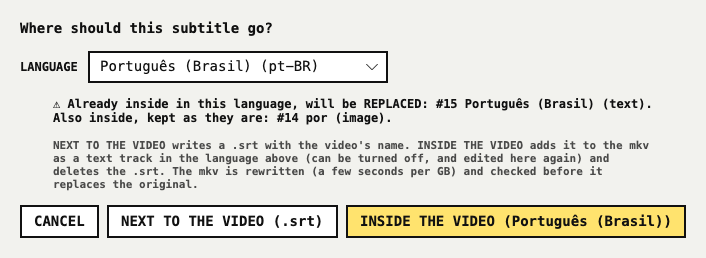
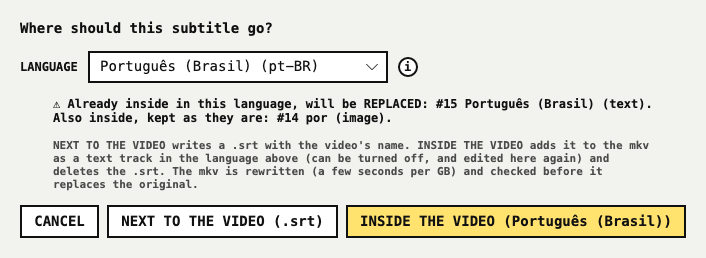
Simple mode: vertically centered buttons, info tips on language pickers
- Button labels are their own mono TextBlock, centered. Subtitle Edit styles
  every TextBlock with the UI font, and the one a Button generated for string
  content took it, with metrics that put capitals above the middle
- ⚙ is the vector cog icon (the font glyph sat above center)
- Language drop-downs (save dialog, OpenSubtitles settings) show dark mono
  text in every state, like the subtitle picker
- A circled "i" next to each language picker explains it on hover: track
  language tag and variants (save), OpenSubtitles' own codes (settings)

Tests measure the rendered pixels above and below every button label in the
window and both dialogs, with the app's UI font style applied.

Claude-Session: https://claude.ai/code/session_016i9HhykoDPTa3qBuRNXJPf

diff --git a/tests/UI/Features/Simple/ButtonCenteringTests.cs b/tests/UI/Features/Simple/ButtonCenteringTests.cs
@@ -1,0 +1,135 @@
+using Avalonia;
+using Avalonia.Controls;
+using Avalonia.Headless;
+using Avalonia.Headless.XUnit;
+using Avalonia.Media.Imaging;
+using Avalonia.Platform;
+using Avalonia.Styling;
+using Avalonia.Threading;
+using Avalonia.VisualTree;
+using Nikse.SubtitleEdit.Features.Simple;
+using System;
+using System.Collections.Generic;
+using System.Linq;
+using System.Runtime.InteropServices;
+using Xunit;
+
+namespace UITests.Features.Simple;
+
+/// <summary>
+/// Measures the rendered pixels: inside every button, the empty space above the label must
+/// match the empty space below it (within a pixel or two).
+/// </summary>
+public class ButtonCenteringTests
+{
+    private static void Pump()
+    {
+        for (var i = 0; i < 5; i++)
+        {
+            Dispatcher.UIThread.RunJobs();
+            AvaloniaHeadlessPlatform.ForceRenderTimerTick();
+        }
+    }
+
+    /// <summary>(gap above, gap below) of the dark pixels inside the button, border excluded.</summary>
+    public static (int Top, int Bottom) InkGaps(WriteableBitmap frame, Rect box, double scale)
+    {
+        using var buffer = frame.Lock();
+        var stride = buffer.RowBytes;
+        var pixels = new byte[stride * buffer.Size.Height];
+        Marshal.Copy(buffer.Address, pixels, 0, pixels.Length);
+
+        var inset = 4; // skip the 2 px border and anti-aliasing
+        int x0 = (int)(box.X * scale) + inset, x1 = (int)((box.X + box.Width) * scale) - inset;
+        int y0 = (int)(box.Y * scale) + inset, y1 = (int)((box.Y + box.Height) * scale) - inset;
+        var inkRows = new List<int>();
+        for (var y = y0; y < y1; y++)
+        {
+            for (var x = x0; x < x1; x++)
+            {
+                var i = y * stride + x * 4;
+                var luminance = (pixels[i] + pixels[i + 1] + pixels[i + 2]) / 3;
+                if (luminance < 110)
+                {
+                    inkRows.Add(y);
+                    break;
+                }
+            }
+        }
+
+        return inkRows.Count == 0 ? (-1, -1) : (inkRows.Min() - y0, y1 - 1 - inkRows.Max());
+    }
+
+    /// <summary>What Subtitle Edit does at startup: every TextBlock gets the UI font.</summary>
+    private static Avalonia.Styling.Styles AppUiFontStyle() => new()
+    {
+        new Avalonia.Styling.Style(x => x.Is<TextBlock>())
+        {
+            Setters = { new Avalonia.Styling.Setter(TextBlock.FontFamilyProperty, new Avalonia.Media.FontFamily("Helvetica Neue, Arial, sans-serif")) },
+        },
+    };
+
+    private static void AssertButtonsCentered(TopLevel top)
+    {
+        Pump();
+        var frame = top.CaptureRenderedFrame()!;
+        var scale = frame.PixelSize.Width / top.Bounds.Width;
+        var report = new List<string>();
+        foreach (var button in top.GetVisualDescendants().OfType<Button>().Where(b => b.Classes.Contains(BrutalTheme.ButtonClass) && b.IsEffectivelyVisible && b.IsEffectivelyEnabled))
+        {
+            var origin = button.TranslatePoint(new Point(0, 0), top)!.Value;
+            var (above, below) = InkGaps(frame, new Rect(origin, button.Bounds.Size), scale);
+            var id = Avalonia.Automation.AutomationProperties.GetAutomationId(button);
+            report.Add($"{id}: {above}/{below}");
+            if (above >= 0)
+            {
+                Assert.True(Math.Abs(above - below) <= 2, $"{id} not centered: {above} px above, {below} px below. All: {string.Join("; ", report)}");
+            }
+        }
+
+        Assert.NotEmpty(report);
+    }
+
+    [AvaloniaFact]
+    public void MainWindow_EveryButtonLabelIsVerticallyCentered_WithTheAppUiFont()
+    {
+        SimpleStrings.Current = SimpleStrings.English;
+        var styles = AppUiFontStyle();
+        Application.Current!.Styles.Add(styles);
+        try
+        {
+            var window = new SimpleWindow(createPlayer: false, new FakeVideoPlayer()) { Width = 1200, Height = 860 };
+            window.Show();
+            AssertButtonsCentered(window);
+            window.Close();
+        }
+        finally
+        {
+            Application.Current.Styles.Remove(styles);
+        }
+    }
+
+    [AvaloniaFact]
+    public void Dialogs_ButtonsAreVerticallyCentered_WithTheAppUiFont()
+    {
+        SimpleStrings.Current = SimpleStrings.English;
+        var styles = AppUiFontStyle();
+        Application.Current!.Styles.Add(styles);
+        try
+        {
+            var save = new SaveChoiceDialog(new SaveRequest(null, "pt-BR", null, InsideIsDefault: true));
+            save.Show();
+            AssertButtonsCentered(save);
+            save.Close();
+
+            var settings = new OnlineSettingsDialog(new Nikse.SubtitleEdit.UiLogic.SimpleSync.OpenSubtitlesSettings());
+            settings.Show();
+            AssertButtonsCentered(settings);
+            settings.Close();
+        }
+        finally
+        {
+            Application.Current.Styles.Remove(styles);
+        }
+    }
+}

diff --git a/src/ui/Features/Simple/BrutalTheme.cs b/src/ui/Features/Simple/BrutalTheme.cs
@@ -120,11 +120,85 @@ public static class BrutalTheme
         Child = child,
     };
 
+    /// <summary>
+    /// The label as its own TextBlock with the font set locally: Subtitle Edit styles every
+    /// TextBlock with the UI font, and the one a Button generates for string content took it,
+    /// with metrics that put capitals above the middle of the button.
+    /// </summary>
+    public static TextBlock ButtonLabel(string text) => new()
+    {
+        Text = text,
+        FontFamily = Mono,
+        FontWeight = FontWeight.Bold,
+        HorizontalAlignment = HorizontalAlignment.Center,
+        VerticalAlignment = VerticalAlignment.Center,
+        TextAlignment = TextAlignment.Center,
+    };
+
+    public static void SetText(Button button, string text) => button.Content = ButtonLabel(text);
+
+    /// <summary>A drop-down in the same look; items shown as dark mono text in every state.</summary>
+    public static ComboBox ComboBox(string automationId, double minWidth)
+    {
+        var combo = new ComboBox
+        {
+            MinWidth = minWidth,
+            FontFamily = Mono,
+            Foreground = Ink,
+            Background = Paper,
+            BorderBrush = Ink,
+            BorderThickness = Line,
+            CornerRadius = new CornerRadius(0),
+            Cursor = Hand,
+            ItemTemplate = new Avalonia.Controls.Templates.FuncDataTemplate<object>((item, _) => new TextBlock
+            {
+                Text = item?.ToString() ?? string.Empty,
+                FontFamily = Mono,
+                Foreground = Ink,
+                VerticalAlignment = VerticalAlignment.Center,
+            }),
+        };
+        combo.Classes.Add(ButtonClass);
+        Avalonia.Automation.AutomationProperties.SetAutomationId(combo, automationId);
+        return combo;
+    }
+
+    /// <summary>A small circled "i"; hovering it shows <paramref name="tip"/>.</summary>
+    public static Control InfoIcon(string tip, string automationId)
+    {
+        var icon = new Border
+        {
+            Width = 20,
+            Height = 20,
+            CornerRadius = new CornerRadius(10),
+            BorderBrush = Ink,
+            BorderThickness = new Thickness(1.5),
+            Background = Paper,
+            VerticalAlignment = VerticalAlignment.Center,
+            Cursor = new Cursor(StandardCursorType.Help),
+            Child = new TextBlock
+            {
+                Text = "i",
+                FontFamily = Mono,
+                FontWeight = FontWeight.Bold,
+                FontSize = 12,
+                Foreground = Ink,
+                HorizontalAlignment = HorizontalAlignment.Center,
+                VerticalAlignment = VerticalAlignment.Center,
+            },
+        };
+        ToolTip.SetTip(icon, new TextBlock { Text = tip, TextWrapping = TextWrapping.Wrap, MaxWidth = 380, FontFamily = Mono, FontSize = 12 });
+        ToolTip.SetShowDelay(icon, 0);
+        Avalonia.Automation.AutomationProperties.SetAutomationId(icon, automationId);
+        Avalonia.Automation.AutomationProperties.SetHelpText(icon, tip);
+        return icon;
+    }
+
     public static Button Button(string text, string automationId)
     {
         var button = new Button
         {
-            Content = text,
+            Content = ButtonLabel(text),
             FontFamily = Mono,
             FontWeight = FontWeight.Bold,
             Foreground = Ink,
@@ -135,6 +209,7 @@ public static class BrutalTheme
             Padding = new Thickness(12, 6),
             MinWidth = 44,
             HorizontalContentAlignment = HorizontalAlignment.Center,
+            VerticalContentAlignment = VerticalAlignment.Center,
             VerticalAlignment = VerticalAlignment.Stretch,
             Cursor = Hand,
         };

diff --git a/src/ui/Features/Simple/SimpleStrings.cs b/src/ui/Features/Simple/SimpleStrings.cs
@@ -67,6 +67,8 @@ public sealed class SimpleStrings
     public required string SaveWillKeep { get; init; }
     public required string SaveNothingInLanguage { get; init; }
     public required string TrackText { get; init; }
+    public required string SaveLanguageInfo { get; init; }
+    public required string OnlineLanguageInfo { get; init; }
     public required string TrackImage { get; init; }
     public required string Embedded { get; init; }
     public required string PlexNotified { get; init; }
@@ -131,6 +133,8 @@ public sealed class SimpleStrings
         SaveWillKeep = "Also inside, kept as they are: {0}.",
         SaveNothingInLanguage = "Nothing in this language inside the video yet.",
         TrackText = "text",
+        SaveLanguageInfo = "The language is written as the track's tag (pt-BR, en, es-419…), which Plex and players use to pick and name the subtitle. Variants are different tracks: saving pt-BR never touches a pt-PT track. Only mkv files can hold it; other formats save the .srt next to the video.",
+        OnlineLanguageInfo = "Which subtitles FIND ONLINE asks OpenSubtitles.com for. Some languages have their own code there (Latin American Spanish is \"ea\", Chinese is \"zh-cn\" / \"zh-tw\"); the app converts it, you only pick the name.",
         TrackImage = "image",
         Embedded = "Saved inside the video as track {0}.",
         PlexNotified = " Plex was told to reload it.",
@@ -196,6 +200,8 @@ public sealed class SimpleStrings
         SaveWillKeep = "Também dentro, ficam como estão: {0}.",
         SaveNothingInLanguage = "Ainda não há nada neste idioma dentro do vídeo.",
         TrackText = "texto",
+        SaveLanguageInfo = "O idioma vira a marca da faixa (pt-BR, en, es-419…), que o Plex e os players usam para escolher e nomear a legenda. Variantes são faixas diferentes: salvar pt-BR nunca mexe numa faixa pt-PT. Só arquivos mkv guardam a faixa; nos outros formatos o .srt fica ao lado do vídeo.",
+        OnlineLanguageInfo = "Em qual idioma o BUSCAR ONLINE procura legendas no OpenSubtitles.com. Alguns idiomas têm código próprio lá (espanhol latino é \"ea\", chinês é \"zh-cn\" / \"zh-tw\"); o app converte, você só escolhe o nome.",
         TrackImage = "imagem",
         Embedded = "Salva dentro do vídeo como faixa {0}.",
         PlexNotified = " O Plex foi avisado para recarregar.",

diff --git a/src/ui/Features/Simple/SaveChoiceDialog.cs b/src/ui/Features/Simple/SaveChoiceDialog.cs
@@ -47,21 +47,9 @@ public class SaveChoiceDialog : Window
             languages.Insert(0, current);
         }
 
-        var language = new ComboBox
-        {
-            ItemsSource = languages,
-            SelectedItem = current,
-            MinWidth = 300,
-            FontFamily = BrutalTheme.Mono,
-            Foreground = BrutalTheme.Ink,
-            Background = BrutalTheme.Paper,
-            BorderBrush = BrutalTheme.Ink,
-            BorderThickness = BrutalTheme.Line,
-            CornerRadius = new CornerRadius(0),
-            Cursor = BrutalTheme.Hand,
-        };
-        language.Classes.Add(BrutalTheme.ButtonClass);
-        Avalonia.Automation.AutomationProperties.SetAutomationId(language, "SaveLanguage");
+        var language = BrutalTheme.ComboBox("SaveLanguage", 300);
+        language.ItemsSource = languages;
+        language.SelectedItem = current;
 
         var warning = BrutalTheme.Label(string.Empty, 12);
         warning.TextWrapping = Avalonia.Media.TextWrapping.Wrap;
@@ -78,7 +66,7 @@ public class SaveChoiceDialog : Window
         void Update()
         {
             var lang = (SubtitleLanguage?)language.SelectedItem ?? current;
-            inside.Content = string.Format(strings.SaveInsideVideo, lang.Name);
+            BrutalTheme.SetText(inside, string.Format(strings.SaveInsideVideo, lang.Name));
             warning.Text = DescribeExisting(request, lang.Ietf);
         }
 
@@ -102,7 +90,7 @@ public class SaveChoiceDialog : Window
             Children =
             {
                 question,
-                new StackPanel { Orientation = Orientation.Horizontal, Spacing = 10, Children = { BrutalTheme.Label(strings.SaveLanguageLabel, 12), language } },
+                new StackPanel { Orientation = Orientation.Horizontal, Spacing = 10, Children = { BrutalTheme.Label(strings.SaveLanguageLabel, 12), language, BrutalTheme.InfoIcon(strings.SaveLanguageInfo, "SaveLanguageInfo") } },
                 warning,
                 help,
                 new StackPanel { Orientation = Orientation.Horizontal, Spacing = 8, HorizontalAlignment = HorizontalAlignment.Right, Children = { cancel, side, inside } },

diff --git a/tests/UI/Features/Simple/SimpleWindowStyleTests.cs b/tests/UI/Features/Simple/SimpleWindowStyleTests.cs
@@ -223,6 +223,35 @@ public class SimpleWindowStyleTests
     }
 
     [AvaloniaFact]
+    public void LanguagePickers_HaveAnInfoTooltip_AndDarkTextOnHover()
+    {
+        SimpleStrings.Current = SimpleStrings.English;
+        var dialog = new OnlineSettingsDialog(new Nikse.SubtitleEdit.UiLogic.SimpleSync.OpenSubtitlesSettings { Language = "pt-br" });
+        dialog.Show();
+        Pump();
+
+        var info = dialog.GetVisualDescendants().OfType<Control>().Single(c => Avalonia.Automation.AutomationProperties.GetAutomationId(c) == "OnlineLanguageInfo");
+        Assert.Contains("\"ea\"", ((TextBlock)ToolTip.GetTip(info)!).Text);
+        Assert.Equal(0, ToolTip.GetShowDelay(info));
+
+        var picker = dialog.GetVisualDescendants().OfType<ComboBox>().Single(c => Avalonia.Automation.AutomationProperties.GetAutomationId(c) == "OnlineLanguage");
+        var center = picker.TranslatePoint(new Point(picker.Bounds.Width / 2, picker.Bounds.Height / 2), dialog)!.Value;
+        dialog.MouseMove(center);
+        Pump();
+        Assert.True(picker.IsPointerOver);
+        var shown = picker.GetVisualDescendants().OfType<TextBlock>().First(t => t.Text == "Português (Brasil) (pt-BR)");
+        Assert.Equal(((ISolidColorBrush)BrutalTheme.Ink).Color, ((ISolidColorBrush)shown.Foreground!).Color);
+        dialog.Close();
+
+        var save = new SaveChoiceDialog(new SaveRequest(null, "pt-BR", null, InsideIsDefault: false));
+        save.Show();
+        Pump();
+        var saveInfo = save.GetVisualDescendants().OfType<Control>().Single(c => Avalonia.Automation.AutomationProperties.GetAutomationId(c) == "SaveLanguageInfo");
+        Assert.Contains("pt-PT", ((TextBlock)ToolTip.GetTip(saveInfo)!).Text);
+        save.Close();
+    }
+
+    [AvaloniaFact]
     public void UnsavedDialog_ButtonsStayReadableOnHover()
     {
         SimpleStrings.Current = SimpleStrings.English;

diff --git a/src/ui/Features/Simple/OnlineSettingsDialog.cs b/src/ui/Features/Simple/OnlineSettingsDialog.cs
@@ -53,21 +53,9 @@ public class OnlineSettingsDialog : Window
             languages.Insert(0, currentLanguage);
         }
 
-        var language = new ComboBox
-        {
-            ItemsSource = languages,
-            SelectedItem = currentLanguage,
-            Width = 360,
-            FontFamily = BrutalTheme.Mono,
-            Foreground = BrutalTheme.Ink,
-            Background = BrutalTheme.Paper,
-            BorderBrush = BrutalTheme.Ink,
-            BorderThickness = BrutalTheme.Line,
-            CornerRadius = new CornerRadius(0),
-            Cursor = BrutalTheme.Hand,
-        };
-        language.Classes.Add(BrutalTheme.ButtonClass);
-        Avalonia.Automation.AutomationProperties.SetAutomationId(language, "OnlineLanguage");
+        var language = BrutalTheme.ComboBox("OnlineLanguage", 330);
+        language.ItemsSource = languages;
+        language.SelectedItem = currentLanguage;
 
         var grid = new Grid { ColumnDefinitions = new ColumnDefinitions("Auto,Auto"), RowDefinitions = new RowDefinitions("Auto,Auto,Auto,Auto,Auto"), RowSpacing = 8, ColumnSpacing = 12 };
         void AddRow(int row, string label, Control field)
@@ -84,7 +72,12 @@ public class OnlineSettingsDialog : Window
         AddRow(1, strings.OnlineAppName, appName);
         AddRow(2, strings.OnlineUsername, username);
         AddRow(3, strings.OnlinePassword, password);
-        AddRow(4, strings.OnlineLanguage, language);
+        AddRow(4, strings.OnlineLanguage, new StackPanel
+        {
+            Orientation = Orientation.Horizontal,
+            Spacing = 10,
+            Children = { language, BrutalTheme.InfoIcon(strings.OnlineLanguageInfo, "OnlineLanguageInfo") },
+        });
 
         var help = BrutalTheme.Label(strings.OnlineHelp, 11);
         help.TextWrapping = Avalonia.Media.TextWrapping.Wrap;

diff --git a/src/ui/Features/Simple/SimpleWindow.cs b/src/ui/Features/Simple/SimpleWindow.cs
@@ -258,7 +258,8 @@ public class SimpleWindow : Window
         var findOnline = BrutalTheme.Button(strings.FindOnline, "FindOnline");
         findOnline.Click += async (_, _) => await FindOnlineAsync();
         findOnline.Bind(IsEnabledProperty, new Binding(nameof(SimpleViewModel.HasVideo)));
-        var onlineSettings = BrutalTheme.Button("⚙", "OnlineSettings");
+        var onlineSettings = BrutalTheme.Button(string.Empty, "OnlineSettings");
+        Optris.Icons.Avalonia.Attached.SetIcon(onlineSettings, Nikse.SubtitleEdit.Logic.IconNames.Settings); // the font's ⚙ sat above center
         onlineSettings.FontSize = 22;
         onlineSettings.Padding = new Thickness(12, 0);
         ToolTip.SetTip(onlineSettings, strings.OnlineSettingsTitle);
